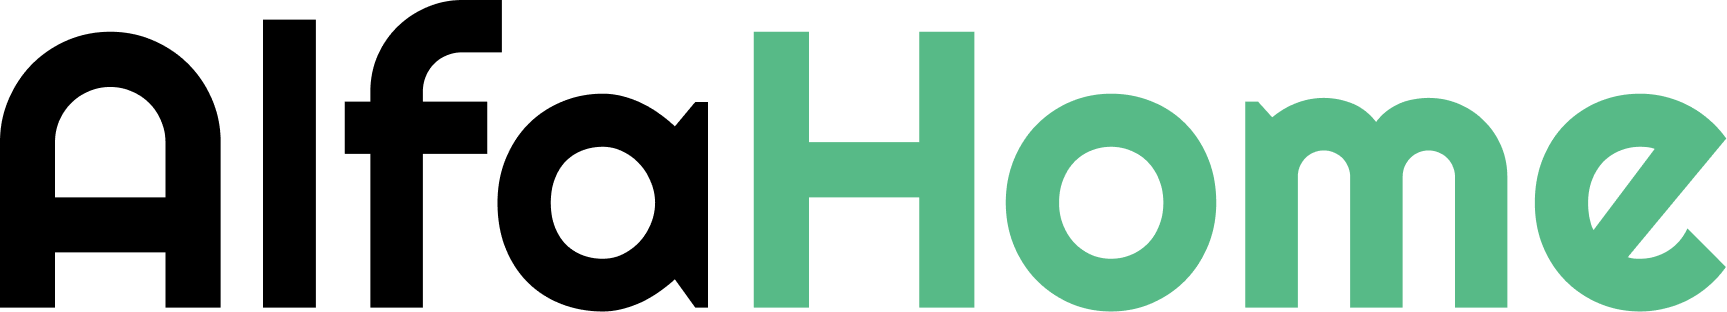
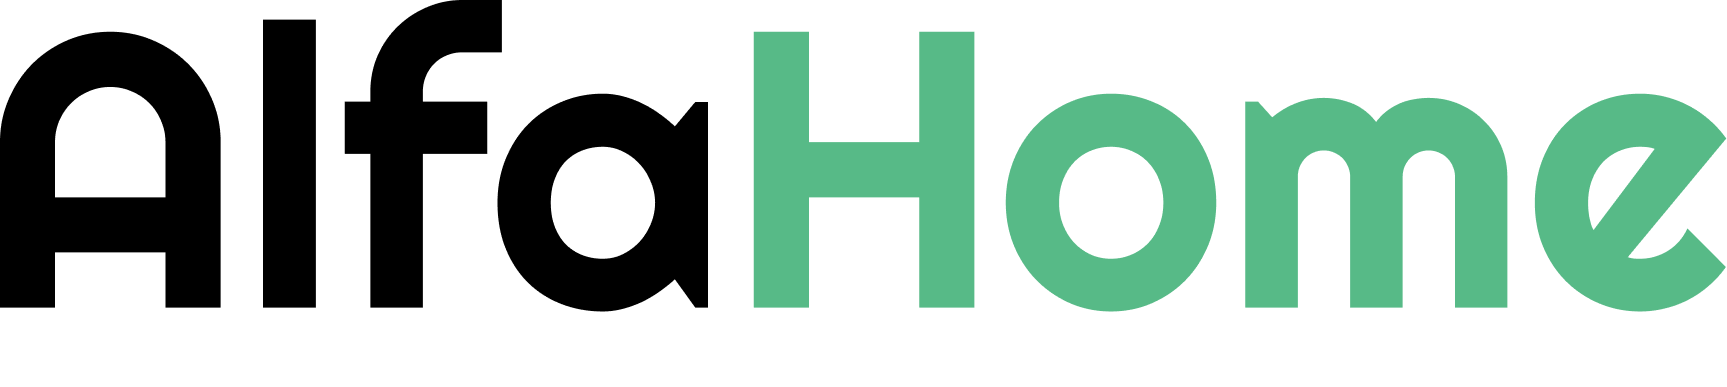
Wordmarks com tamanho equilibrado e AlfaHome do arquivo corrigido
O AlfaGym aparecia bem menor que os outros e não era CSS: o quadro dele tem
387px de altura por causa da descida do "y", contra 312 dos demais. Com altura
fixa, a letra ocupava 75% da caixa enquanto as outras ocupavam 93% a 99% — uma
diferença de 25% no tamanho aparente.

A palavra "Alfa" é comum a todas as marcas, então serviu de régua: medida a
altura dela em cada arquivo, os quadros foram normalizados para a mesma
proporção letra/quadro (0,747, a do AlfaGym, que é quem precisa do espaço da
descida). Só o quadro mudou; nenhum desenho foi tocado nem redimensionado.

Agora uma única altura de caixa no CSS produz letra do mesmo tamanho em todas,
e acrescentar uma marca nova é só passá-la pela mesma normalização.

O AlfaHome escuro vem do arquivo que você corrigiu na pasta — o anterior era o
wordmark do AlfaMatriz com nome trocado.

diff --git a/resources/views/produtos/index.blade.php b/resources/views/produtos/index.blade.php
@@ -191,7 +191,10 @@
                     {{-- No cartão o produto é o assunto e tem espaço próprio:
                          aqui o wordmark cabe e vale a pena. --}}
                     <div class="min-w-0">
-                        <x-marca-sistema :sistema="$sistema" formato="wordmark" tamanho="h-5 max-w-[70%]" />
+                        {{-- 26px de caixa dá ~19px de letra em todas as marcas: os quadros
+                             foram normalizados para a mesma proporção letra/quadro,
+                             então a altura da caixa vale igual para todas. --}}
+                        <x-marca-sistema :sistema="$sistema" formato="wordmark" tamanho="h-[26px] max-w-full" />
                         <span class="mt-2 block font-mono text-[11px] uppercase tracking-caps text-ink-faint truncate">
                             {{ $sistema->unidade_cobranca }}
                         </span>
